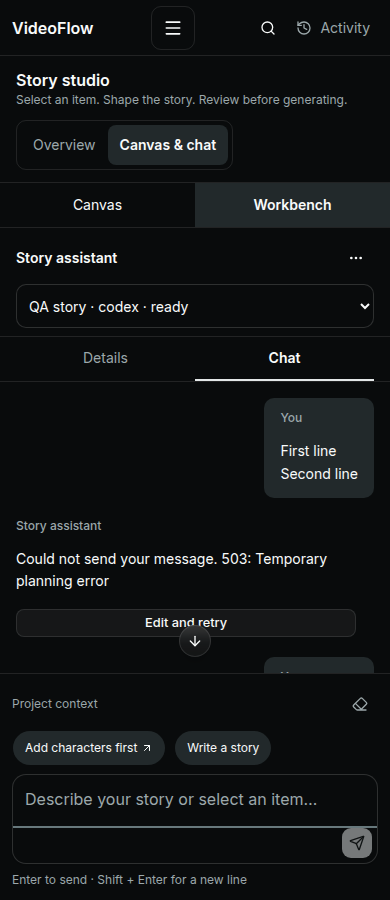
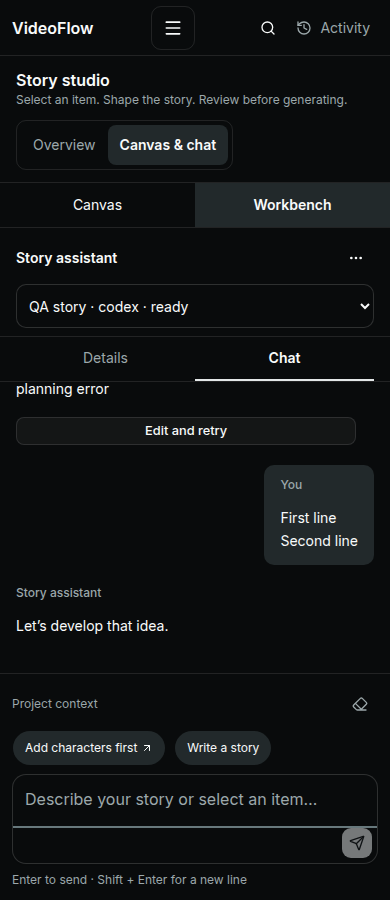
Keep chat following replies without interrupting history reading

diff --git a/frontend/src/lib/components/ai-elements/conversation/stick-to-bottom-context.svelte.ts b/frontend/src/lib/components/ai-elements/conversation/stick-to-bottom-context.svelte.ts
@@ -11,6 +11,7 @@ class StickToBottomContext {
 	#intersectionObserver: IntersectionObserver | null = null;
 	#sentinel: HTMLElement | null = null;
 	#userHasScrolled = $state(false);
+	#lastScrollTop = 0;
 
 	isAtBottom = $derived(this.#isAtBottom);
 
@@ -45,13 +46,14 @@ class StickToBottomContext {
 		this.#element = element;
 	}
 
-	scrollToBottom = (behavior: ScrollBehavior = "smooth") => {
+	scrollToBottom = (_behavior: ScrollBehavior = "instant") => {
 		if (!this.#element) return;
 
 		this.#userHasScrolled = false; // Reset user scroll flag when programmatically scrolling
 		this.#element.scrollTo({
 			top: this.#element.scrollHeight,
-			behavior: window.matchMedia("(prefers-reduced-motion: reduce)").matches ? "instant" : behavior,
+			// Move directly: animated intermediate positions look like scrolling into history.
+			behavior: "instant",
 		});
 	};
 
@@ -66,12 +68,13 @@ class StickToBottomContext {
 		// Update the isAtBottom state based on scroll position
 		this.#isAtBottom = isAtBottom;
 
-		if (!isAtBottom) {
-			this.#userHasScrolled = true;
-		} else if (isAtBottom && this.#userHasScrolled) {
-			// User scrolled back to bottom, reset flag
+		if (isAtBottom) {
 			this.#userHasScrolled = false;
+		} else if (scrollTop < this.#lastScrollTop - 1) {
+			// Moving into history pauses following. Content growth alone must not.
+			this.#userHasScrolled = true;
 		}
+		this.#lastScrollTop = scrollTop;
 	};
 
 	#setupObservers() {
@@ -108,8 +111,9 @@ class StickToBottomContext {
 		// Setup resize observer for smooth scrolling on resize
 		this.#resizeObserver = new ResizeObserver(() => {
 			// Check position after resize
+			const wasFollowing = !this.#userHasScrolled;
 			this.#checkScrollPosition();
-			if (this.#isAtBottom && !this.#userHasScrolled) {
+			if (wasFollowing) {
 				this.scrollToBottom("auto");
 			}
 		});
@@ -122,7 +126,7 @@ class StickToBottomContext {
 			requestAnimationFrame(() => {
 				// Check if we should auto-scroll BEFORE updating the position
 				// Only auto-scroll if user was at bottom and hasn't manually scrolled
-				const shouldAutoScroll = this.#isAtBottom && !this.#userHasScrolled;
+				const shouldAutoScroll = !this.#userHasScrolled;
 
 				// Now update the scroll position after content changes
 				this.#checkScrollPosition();

diff --git a/docs/audits/2026-11-12-integrated-assistant.md b/docs/audits/2026-11-12-integrated-assistant.md
@@ -42,14 +42,14 @@ Expected 13 items; reported 13: 8 Present, 1 Partial, 1 Missing, 3 Not applicabl
 | Chat / Sender identification | ChatPanel previously exposed author names only to assistive technology. Source and populated fixture. | Medium | Visible role labels; populated desktop/mobile screenshots and retained accessible log. |
 | Empty state / Clear heading, Primary action | Fake greeting occupied the first message position with no task-starting action. Source and supplied screenshot. | Medium | Dedicated empty state with prompt-filling action; first actual send removes the synthetic greeting from conversation history. |
 | Empty state / Error state variant | Failed history load appeared as an ordinary assistant message; missing session guidance shared the thread styling. | Medium | Separate setup/loading/error states, disabled submission and retry. Browser checks each state and recovery. |
-| Chat / Message thread | Existing AI Elements scroll context used a 200px bottom threshold. A browser regression reproduced a forced jump while reading 80px above the bottom. | Medium | Follow only within a 4px rounding tolerance of the bottom; preserve position above it. Browser checks reading at the start and near the end, plus explicit jump-to-latest. |
+| Chat / Message thread | Existing AI Elements scroll context used a 200px bottom threshold. A browser regression reproduced a forced jump while reading 80px above the bottom. | Medium | Follow only within a 4px rounding tolerance of the bottom; preserve position above it. Track movement into history separately from content growth, retain following through composer/content resizing, and move directly when following so animation positions are not misread as manual scrolling. Browser checks reading at the start and near the end, plus explicit jump-to-latest. |
 | Chat / Message input | Failed sends gave text errors without a way to restore the cleared multiline prompt. | Medium | Edit and retry restores the original text and requires another send. Browser verifies both lines and subsequent success. |
 
 ## Verification and limitations
 
 - Production build passed; Svelte check found zero errors and warnings.
 - Populated canvas/browser suite: 26 checks across desktop 1440px and mobile 390px, including existing scene edits, dirty guards, selection payload, layout undo, and new assistant controls; zero page errors.
-- Chat state suite: 10 checks across desktop/mobile, covering setup, failed history/retry, multiline failed sends/retry, preserved reading position (including 80px above the bottom), jump-to-latest, and retained proposals that never run automatically. Mobile uses reduced-motion emulation; zero page errors.
+- Chat state suite: 10 checks across desktop/mobile, covering setup, failed history/retry, multiline failed sends/retry, automatic following to the completed reply, preserved reading position (including 80px above the bottom), jump-to-latest, and retained proposals that never run automatically. Mobile uses reduced-motion emulation; zero page errors.
 - Existing application regression suite: 14 checks; unit suite: 21 tests.
 - Live application inspected with the collaborative browser. All browser test writes were intercepted fixtures, with no paid generation or real credential changes.
 

diff --git a/docs/superpowers/plans/2026-11-12-integrated-assistant.md b/docs/superpowers/plans/2026-11-12-integrated-assistant.md
@@ -12,3 +12,5 @@
 - [x] Record checklist evidence and limits, commit and update PR.
 
 Verification: production build and Svelte check passed; 26 populated-canvas checks, 10 chat-state checks and 14 application regression checks passed with zero browser page errors. Unit tests: 21 passed. The near-bottom scrolling regression failed before tightening the library threshold and passed afterward. Evidence and item coverage: docs/audits/2026-11-12-integrated-assistant.md.
+
+Additional regression: completed-reply following failed when content growth was mistaken for manual history scrolling. The fix tracks movement into history separately and follows through content/composer resizing. Both ordinary following and manually paused reading are verified.
